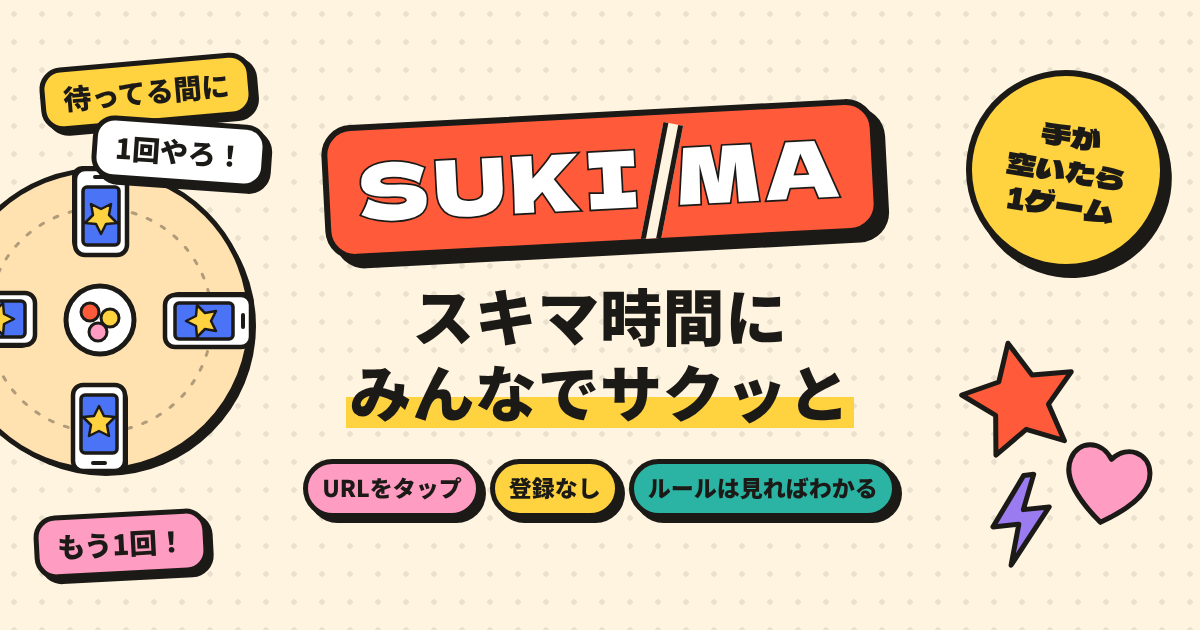
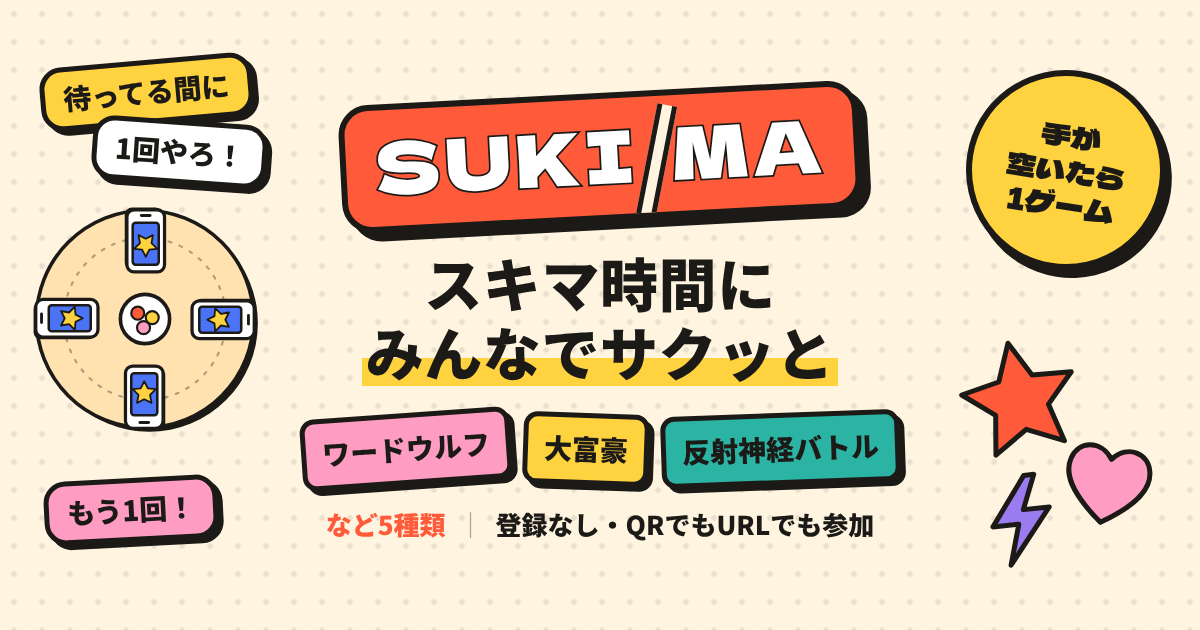
Refine OGP image: fit table art, add game name cards, drop rules chip
Claude-Session: https://claude.ai/code/session_01H41cTqMxdqRgXVNK8y2DkT

diff --git a/design/ogp/ogp.html b/design/ogp/ogp.html
@@ -5,8 +5,12 @@
 <title>SUKIMA OGP 画像（1200×630）</title>
 <!--
   OGP 画像の元ファイル（J-01）。design/ogp/render.mjs で 1200×630・deviceScaleFactor 1 で撮る。
-  正方形に切り抜かれても成立するよう、ロゴ・コピー・特徴チップは中央 630×630（x=285〜915）に収め、
+  正方形に切り抜かれても成立するよう、ロゴ・コピー・ゲーム名の札は中央 630×630（x=285〜915）に収め、
   左右の飾り（テーブルを囲むスマホ・吹き出し・ステッカー）は切れても主旨が欠けないものだけにする。
+  1200×630 のときは飾りも全部見えるよう、左の絵は左余白（0〜285）の内側に収める（PO の指摘 2026-11-15）。
+  ゲーム名は小さいプレビューで読めるよう 3 つに絞る（指スマは PO の意向で載せない。2026-11-15）。
+  よく知られていて名前だけで遊び方が浮かぶもの（ワードウルフ・大富豪・反射神経バトル）を選び、「など5種類」で残りがあることを伝える。
+  ミニゲームラッシュは造語で名前から中身が浮かびにくく、多数派ゲームは一般にはまだ知られていないため外した。
   場面は D-25（2026-11-15）の「集まっているときのスキマ時間（対面）」。通話の要素は入れない。
   トークンは案B「ポップ・ステッカー」（src/styles.css）のライト配色。小さいプレビューでも明るく目立つため。
 -->
@@ -41,24 +45,28 @@ svg { display: block; }
 
 /* 中央 630×630 の安全域 */
 .safe { position: absolute; left: 285px; top: 0; width: 630px; height: 630px;
-  display: flex; flex-direction: column; align-items: center; justify-content: center; gap: 30px; }
+  display: flex; flex-direction: column; align-items: center; justify-content: center; gap: 26px; }
 
-.logo { display: inline-block; font-family: var(--font-pop); font-size: 78px; line-height: 1; letter-spacing: 0.06em;
+.logo { display: inline-block; font-family: var(--font-pop); font-size: 72px; line-height: 1; letter-spacing: 0.06em;
   color: #fff; background: var(--accent); padding: 18px 28px 22px; border: 6px solid var(--line); border-radius: 30px;
   transform: rotate(-3deg); box-shadow: 9px 9px 0 var(--line); -webkit-text-stroke: 3.5px var(--line); paint-order: stroke fill;
   overflow: hidden; white-space: nowrap; }
 .logo .slit { display: inline-block; width: 20px; height: 1.6em; margin: -0.4em 5px -0.4em 8px; vertical-align: middle;
   background: var(--bg); border-left: 5px solid var(--line); border-right: 5px solid var(--line); transform: rotate(14deg); }
 
-.copy { margin: 0; text-align: center; font-weight: 900; line-height: 1.22; font-size: 62px; letter-spacing: 0.01em; }
+.copy { margin: 0; text-align: center; font-weight: 900; line-height: 1.2; font-size: 58px; letter-spacing: 0.01em; }
 .copy .mark { background: linear-gradient(transparent 58%, var(--yellow) 58%, var(--yellow) 92%, transparent 92%); padding: 0 4px; }
 
-.chips { display: flex; gap: 9px; }
-.chip { font-weight: 900; font-size: 23px; line-height: 1; padding: 12px 14px 14px; background: var(--surface);
-  border: 5px solid var(--line); border-radius: 999px; box-shadow: 5px 5px 0 var(--line); white-space: nowrap; }
-.chip.y { background: var(--yellow); }
-.chip.p { background: var(--pink); }
-.chip.t { background: var(--teal); }
+.games { display: flex; gap: 12px; align-items: center; }
+/* ゲーム名はトランプの札のように少しずつ傾けて並べる（「いくつか選べる」感じを出す） */
+.card { font-weight: 900; font-size: 28px; line-height: 1; padding: 16px 16px 18px; background: var(--surface);
+  border: 5px solid var(--line); border-radius: 14px; box-shadow: 5px 5px 0 var(--line); white-space: nowrap; }
+.card:nth-child(1) { background: var(--pink); transform: rotate(-4deg); }
+.card:nth-child(2) { background: var(--yellow); transform: rotate(2deg); }
+.card:nth-child(3) { background: var(--teal); transform: rotate(-2deg); }
+.sub { margin: 0; font-weight: 900; font-size: 26px; line-height: 1; white-space: nowrap; }
+.sub .more { color: var(--accent); }
+.sub .sep { display: inline-block; margin: 0 12px; opacity: 0.35; }
 
 /* 左右の飾り（正方形に切られたら見えなくてよい） */
 .deco { position: absolute; }
@@ -73,9 +81,9 @@ svg { display: block; }
 <div class="canvas">
 
   <!-- 左：テーブルを上から見た絵。囲んだ 4 台のスマホが同じゲーム画面を出している＝同じ場所にいる複数人。
-       左端で切れても「テーブルを囲んで何台か」は残るよう、スマホは右半分にも配る -->
-  <div class="deco" style="left:-70px; top:150px;">
-    <svg width="340" height="340" viewBox="0 0 340 340">
+       1200×630 で左端に切れないよう、左余白（0〜285）の内側に縮めて置く -->
+  <div class="deco" style="left:22px; top:196px;">
+    <svg width="246" height="246" viewBox="0 0 340 340">
       <!-- テーブル -->
       <circle cx="176" cy="176" r="150" fill="#1c1a17" />
       <circle cx="170" cy="170" r="150" fill="#ffe2b0" class="ln" />
@@ -103,7 +111,7 @@ svg { display: block; }
   </div>
   <div class="bubble" style="left:40px; top:60px; transform: rotate(-5deg); background: var(--yellow);">待ってる間に</div>
   <div class="bubble" style="left:92px; top:120px; transform: rotate(4deg);">1回やろ！</div>
-  <div class="bubble" style="left:34px; top:512px; transform: rotate(-3deg); background: var(--pink);">もう1回！</div>
+  <div class="bubble" style="left:44px; top:478px; transform: rotate(-3deg); background: var(--pink);">もう1回！</div>
 
   <!-- 右上：手が空いたときの気軽さ（中央のコピーと重ならない言い方。切れても困らない） -->
   <div class="solo" style="left:966px; top:70px; transform: rotate(9deg);">手が<br>空いたら<br>1ゲーム</div>
@@ -125,11 +133,12 @@ svg { display: block; }
   <div class="safe">
     <span class="logo">SUKI<i class="slit"></i>MA</span>
     <p class="copy">スキマ時間に<br><span class="mark">みんなでサクッと</span></p>
-    <div class="chips">
-      <span class="chip p">URLをタップ</span>
-      <span class="chip y">登録なし</span>
-      <span class="chip t">ルールは見ればわかる</span>
+    <div class="games">
+      <span class="card">ワードウルフ</span>
+      <span class="card">大富豪</span>
+      <span class="card">反射神経バトル</span>
     </div>
+    <p class="sub"><span class="more">など5種類</span><span class="sep">｜</span>登録なし・QRでもURLでも参加</p>
   </div>
 </div>
 </body>
